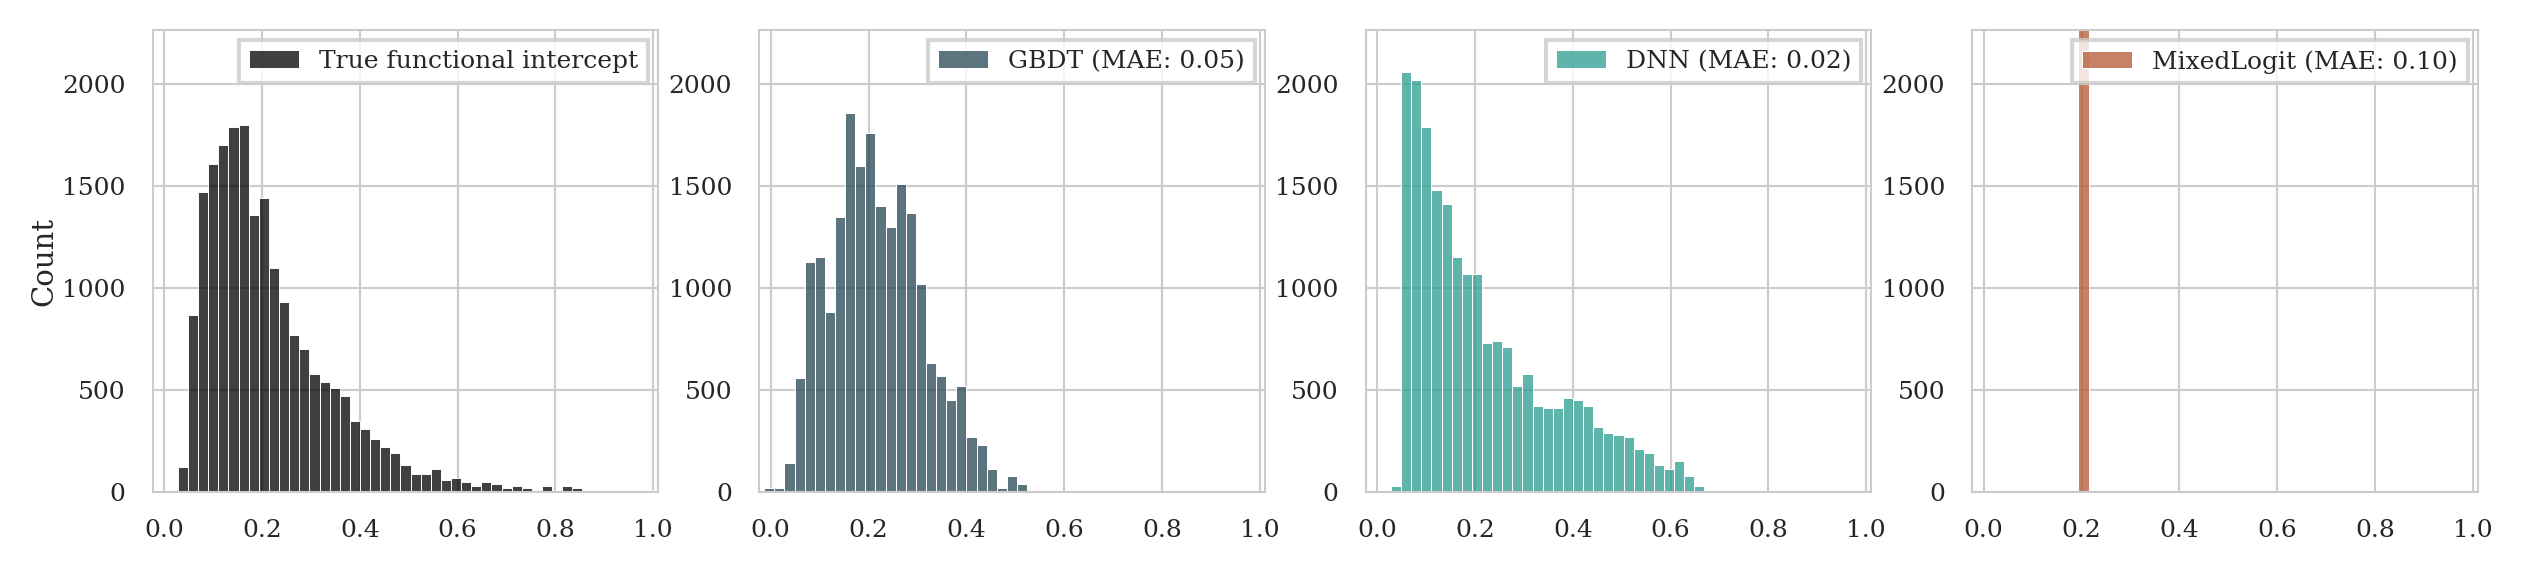
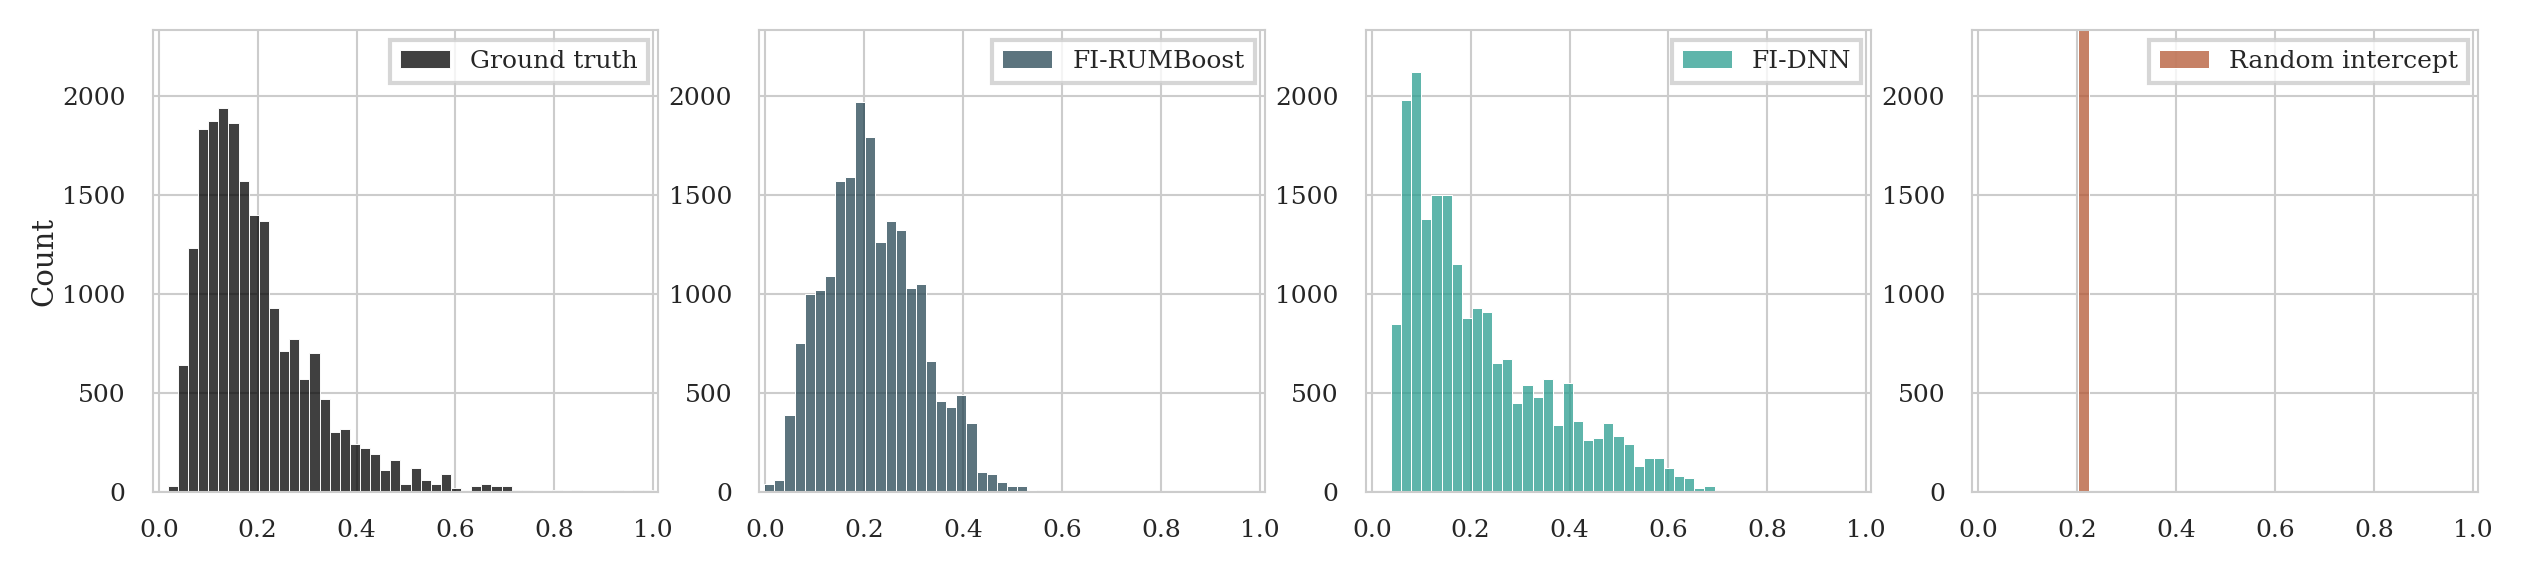
adds final table and figures on synthetic experiment

diff --git a/src/results/synthetic/benchmark_table.tex b/src/results/synthetic/benchmark_table.tex
@@ -1,0 +1,13 @@
+\begin{table}[htbp]
+\caption{MAE between recovered and true functional intercepts, negative cross-entropy loss on train and test set, and computational time. The MAE is averaged over the three class intercepts.}
+\label{tab:synthetic_benchmark}
+\begin{tabular}{lrrrrr}
+\toprule
+ & MAE - Train & MAE - Test & CEL - Train & CEL - Test & Comput. time [s] \\
+\midrule
+\textbf{FI-RUMBoost} & 0.044 & 0.043 & 1.343 & 1.344 & 3.100 \\
+\textbf{FI-DNN} & 0.038 & 0.037 & 1.346 & 1.343 & 11.820 \\
+\textbf{Random Intercept} & 0.289 & 0.112 & 1.35 & 1.349 & 47.640 \\
+\bottomrule
+\end{tabular}
+\end{table}
